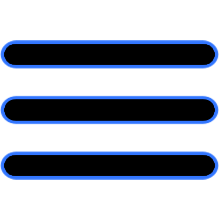
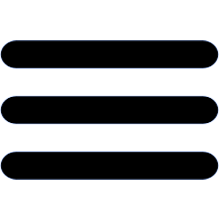
Initial commit

Changed region(s): [[0.0, 0.1636, 1.0, 0.3273], [0.0, 0.6818, 1.0, 0.8182], [0.0, 0.4364, 1.0, 0.5727]]

diff --git a/work.html b/work.html
@@ -85,52 +85,13 @@
     </nav>
     
     <div class="container">
-            <div class="row" id="firstRow">
-              <div class="col">
-                  <h1>Webpage Mockup Design</h1>
-                  <div class="col">
-                      <img src="images/work/CruiseDirector_Finished_Model4.jpg">
-                      <span id="viewmoreTwo" onclick="myFunctionTwo()"><a href="javascript:void(0)" id="clickMe">View More</a></span>
-                      <div id="imagesTwo">
-                          <img src="images/work/CruiseDirector_Finished_Model1.jpg">
-                          <img src="images/work/jdsup-screens-mockup.jpg" style="width: 100%;">
-                        <span id="viewlessTwo" onclick="closeFunctionTwo()"><a href="javascript:void(0)" id="clickMe">View Less</a></span>
-                         </div>
-                         <script type="application/javascript">
 
-                          function myFunctionTwo() {
-                           document.getElementById("imagesTwo").style.width = "100%";
-                           
-                           document.getElementById("viewmoreTwo").style.display = "none";
-
-                           document.getElementById("viewlessTwo").style.display = "block";
-
-                            }
-                            function closeFunctionTwo() {
-                           document.getElementById("imagesTwo").style.width = "0%";
-
-                           document.getElementById("viewmoreTwo").style.display = "block";
-
-                           document.getElementById("viewlessTwo").style.display = "none";
-                            }
-                        </script>
-                  </div>
-                  <p> While interning for International Voyager Inc. (a travel agency that runs top rated booking websites), 
-                    I overheard the head of the company say they were looking for a new design on one of their sites. In my spare time, I researched
-                    a variety of cruise websites that they enjoyed, and tried to create a similar design based off of these sites. I stepped up to
-                     the plate to take on the task in my free time from work, and designed a mockup front page for their
-                      website for Cruise Director (a site offering discounted rates on luxury cruiselines).
-                  </p>
-            </div>
-
-            </div>
               <div class="row" id="secondRow">
                   <div class="col">
                       <h1 id="sushineseries">Sunshine Series Logo Design</h1>
-                    <img src="images/work/redtee.jpg"><img src="images/work/bluetee.jpg">
+                      <img src="images/work/SunshineSeriesFinalHostedby.jpg"><img src="images/work/Back-tshirtred.jpg">
                   </div>
                   <div class="col">
-                    <img src="images/work/SunshineSeriesFinalHostedby.png">
 
                     <p>"The Sunshine Series" hosted by Sahara Moon features other artists around the world and gives them 
                        the opportunity to spread their music. Sahara was looking for a fun new logo design that she could 
@@ -139,13 +100,48 @@
                     </p>
                   </div>
                 </div>
+                <div class="row" id="firstRow">
+                    <div class="col">
+                        <h1>Webpage Mockup Design</h1>
+                        <div class="col">
+                            <img src="images/work/CruiseDirector_Finished_Model4.jpg">
+                            <span id="viewmoreTwo" onclick="myFunctionTwo()"><a href="javascript:void(0)" id="clickMe">View More</a></span>
+                            <div id="imagesTwo">
+                                <img src="images/work/CruiseDirector_Finished_Model1.jpg">
+                                <img src="images/work/jdsup-screens-mockup.jpg" style="width: 100%;">
+                              <span id="viewlessTwo" onclick="closeFunctionTwo()"><a href="javascript:void(0)" id="clickMe">View Less</a></span>
+                               </div>
+                               <script type="application/javascript">
+      
+                                function myFunctionTwo() {
+                                 document.getElementById("imagesTwo").style.width = "100%";
+                                 
+                                 document.getElementById("viewmoreTwo").style.display = "none";
+      
+                                 document.getElementById("viewlessTwo").style.display = "block";
+      
+                                  }
+                                  function closeFunctionTwo() {
+                                 document.getElementById("imagesTwo").style.width = "0%";
+      
+                                 document.getElementById("viewmoreTwo").style.display = "block";
+      
+                                 document.getElementById("viewlessTwo").style.display = "none";
+                                  }
+                              </script>
+                        </div>
+                        <p> While interning for International Voyager Inc. (a travel agency that runs top rated booking websites), 
+                          I overheard the head of the company say they were looking for a new design on one of their sites. In my spare time, I researched
+                          a variety of cruise websites that they enjoyed, and tried to create a similar design based off of these sites. I stepped up to
+                           the plate to take on the task in my free time from work, and designed a mockup front page for their
+                            website for Cruise Director (a site offering discounted rates on luxury cruiselines).
+                        </p>
+                  </div>
+      
+                  </div>
                   <div class="row" id="thirdRow">
                       <div class="col">
                           <h1>Vintage Posters</h1>
-                          <p>Here are some poster designs I created of musicians who I really enjoy. Each
-                             poster is inspired by a certain song or idea that the musician revolves around.
-                             For example, Jimi Hendrix's "Purple Haze", Jerry Garcia's "Scarlet Begonia", Frank Sinatra's "Fly Me to the Moon"...
-                          </p>
                       </div>
 
                       <div class="col" id="thirdRow">
@@ -187,7 +183,7 @@
       <small><center>Copyright © Austin Bowers 2019</center></small>
       <p style="position: fixed; bottom: 0; width: 100%; margin-bottom: 5px;">
         <small><center>Website Designed and Developed by Austin Bowers</center></small>
-    <button onclick="topFunction()" id="myBtn" title="Go to top">Back to Top</button>
+    <button onclick="topFunction()" id="myBtn" title="Go to top"><img src="images/arrowup.png"></button>
     <script type="application/javascript">
 
       // When the user clicks on the button, scroll to the top of the document

diff --git a/work.css b/work.css
@@ -44,7 +44,7 @@ body {
   color: black;
   text-align: left;
   font-size: 2.4vh;
-  font-weight: 100;
+  font-weight: 200;
   }
 
   .row .col h1 {
@@ -142,8 +142,7 @@ body {
   border-radius: 40px;
   margin: 1em 0;
   transition: 0.3s;
-  border: solid 1px;
-  border-color: cornflowerblue;
+
 }
 
 
@@ -303,8 +302,7 @@ body {
   border-radius: 10px; /* Rounded corners */
   font-size: 12px; /* Increase font size */
   font-weight: 100;
-  border: solid 1px;
-  border-color: cornflowerblue;
+
 }
 
 #myBtn:hover {
